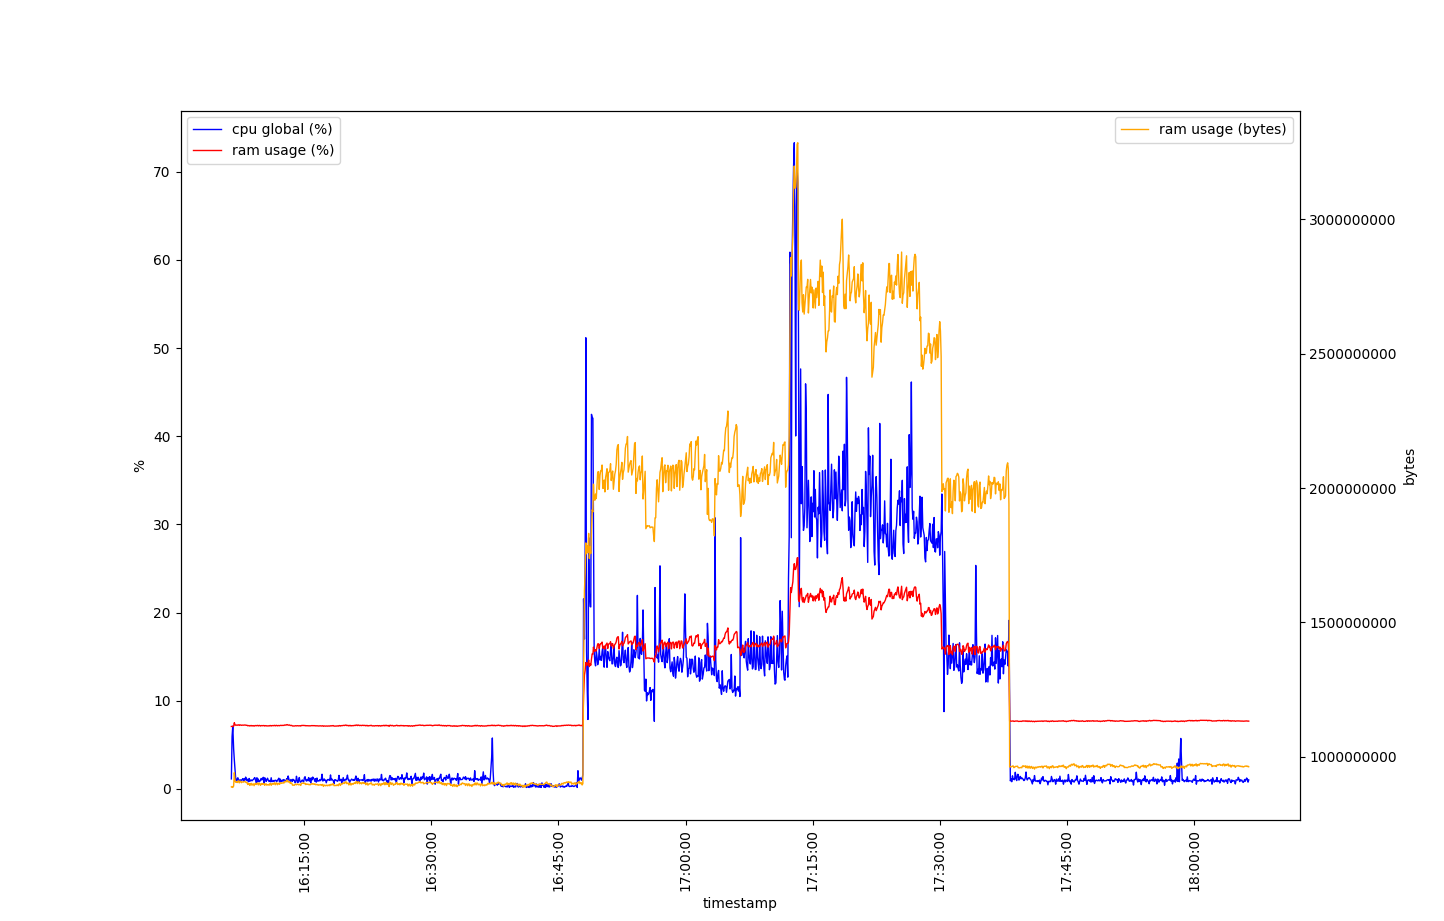
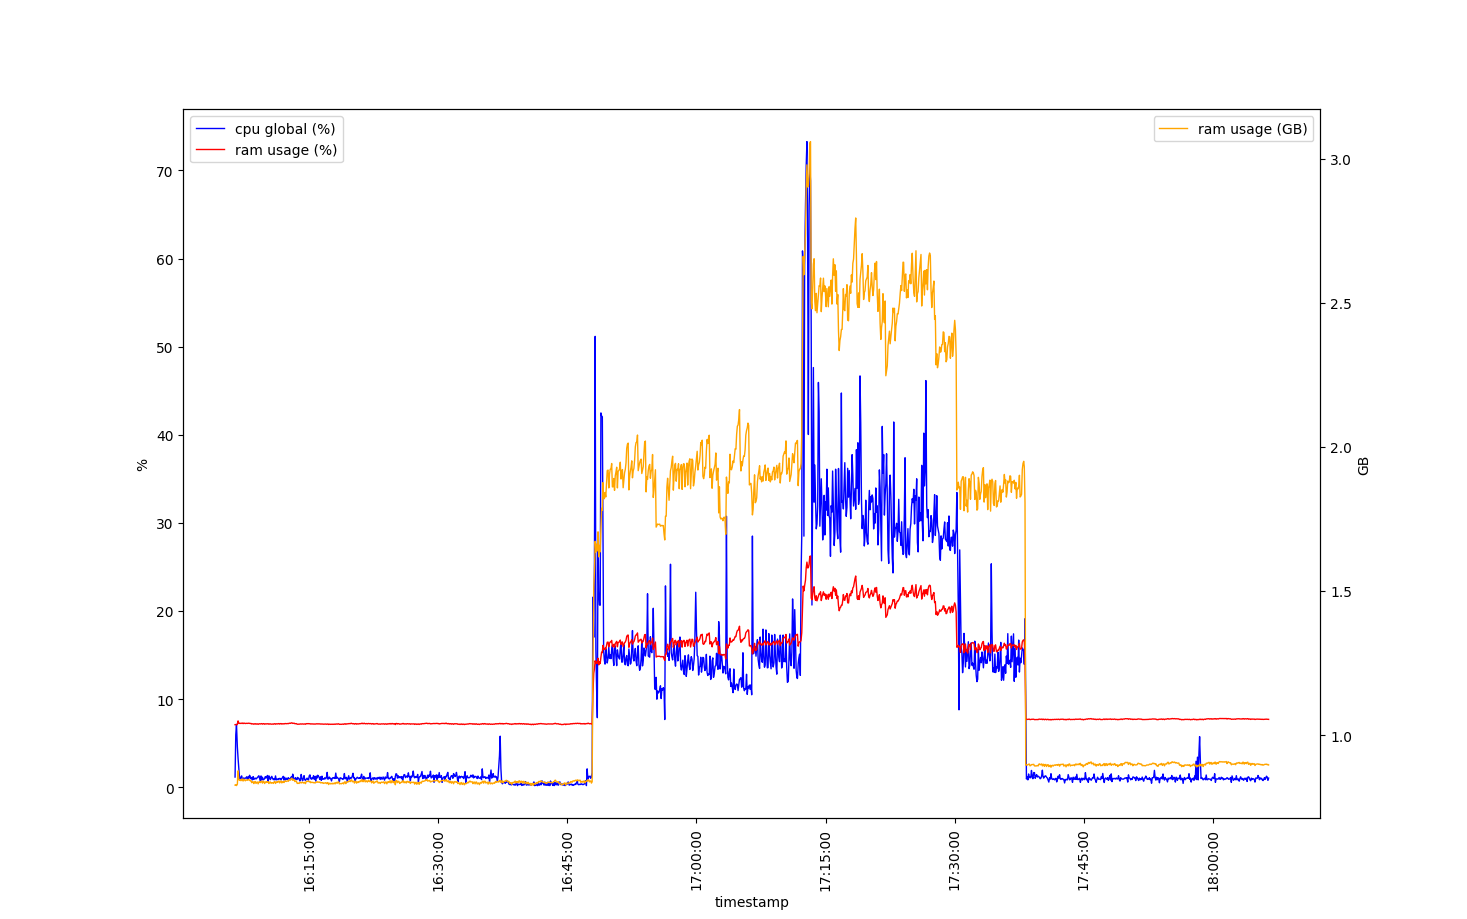
finished P2

diff --git a/P2/data/cpu-ram/cpu-ram-chart.py b/P2/data/cpu-ram/cpu-ram-chart.py
@@ -7,8 +7,9 @@ import matplotlib.dates as mdates
 from matplotlib.ticker import ScalarFormatter
 
 cols = zip(*(l.strip().split(",") for l in sys.stdin.readlines()))
-types = ("datetime64", "float", "uint", "float")
+types = ("datetime64", "float", "float", "float")
 tmsp, cpu, ram, ram_percent = (np.array(d, dtype=dt) for d, dt in zip(cols, types))
+ram /= 2**30
 
 # percentage
 _, ax_percent = plt.subplots()
@@ -27,14 +28,14 @@ plt.legend(loc="upper left")
 
 ax_ram = ax_percent.twinx()
 ax_ram.set_xlabel("timestamp")
-ax_ram.set_ylabel("bytes")
+ax_ram.set_ylabel("GB")
 ax_ram.yaxis.set_label_position("right")
 ax_ram.yaxis.set_ticks_position("right")
 ax_ram.yaxis.set_major_formatter(ScalarFormatter(useOffset=False))
 ax_ram.ticklabel_format(style="plain", axis="y")
 ax_ram.set_xticklabels(ax_ram.get_xticklabels(), rotation=90)
 
-ax_ram.plot(tmsp, ram, linestyle="-", color="orange", linewidth=1, label="ram usage (bytes)")
+ax_ram.plot(tmsp, ram, linestyle="-", color="orange", linewidth=1, label="ram usage (GB)")
 
 plt.legend(loc="upper right")
 

diff --git a/P2/P2.md b/P2/P2.md
@@ -30,8 +30,10 @@ header-includes: |
 El comando utilizado para la monitorización es el siguiente:
 
 ```bash
-top -b -n 1080 -d 5 | awk '/^%Cpu\(s\):/ {print strftime("%Y-%m-%d %H:%M:%S"), $0}
+top -b -n 1080 -d 5 | awk '/^%Cpu\(s\):/ {print strftime("%Y-%m-%d %H:%M:%S") "," 100-$8 "," $2 "," $4}'
 ```
+
+La utilización de CPU global se calcula con el propio comando ($U_{global} = 100 - U_{idle}$) y el output generado ya está en formato CSV, por lo que no necesita ningún post-procesado.
 
 ## ¿Cuántas CPUs tiene el sistema que se ha monitorizado? ¿De dónde se ha obtenido esa información?
 
@@ -44,35 +46,69 @@ $ nproc --all
 
 ## ¿Cuál es la utilización media de la CPU en modo usuario, sistema y en global?
 
-* media usuario: `0.073981 %`
-* media sistema: `0.042222 %`
-* media global:  `0.155370 %`
+* Media usuario: `0.073981 %`
+* Media sistema: `0.042222 %`
+* Media global:  `0.155370 %`
 
 ## ¿Cómo se comportan las medidas anteriores a lo largo del tiempo de observación? Muestra las tres métricas de forma gráfica.
 
 La utilización de la CPU se mantiene bastante baja, entre el 0% y 2%, y estable durante todo el período de medición, exceptuando el pequeño pico de actividad que hay entre las 09:50 y las 10:00.
 Las primeras mediciones son muy elevadas, probablemente debido a que el monitor top necesita un tiempo para estabilizar los valores medidos.
+En la gráfica se puede apreciar como la utilización global siempre es superior a la utilización de usuario y sistema.
 
 ![CPU 90 min](./data/cpu/cpu-usage-90m.png)
 
 ## ¿Cuál es la sobrecarga provocada por el monitor TOP?
 
-Ejecutando el siguiente unas varias veces podemos obtener el tiempo de ejecución de cada uno:
+Ejecutando el siguiente unas varias veces podemos obtener el tiempo de ejecución de cada medición:
 
 ```bash
-time top -b -n 1 -d 1 | awk '/^%Cpu\(s\):/ {print strftime("%Y-%m-%d %H:%M:%S"), $0}
+time top -b -n 1 -d 1 | awk '/^%Cpu\(s\):/ {print strftime("%Y-%m-%d %H:%M:%S") "," 100-$8 "," $2 "," $4}'
+```
+
+```
+$ time top -b -n 1 -d 1 | awk '/^%Cpu\(s\):/ {print strftime("%Y-%m-%d %H:%M:%S") "," 100-$8 "," $2 "," $4}'
+2025-03-10 11:02:35,9.9,8.5,1.4
+
+real    0m0.188s
+user    0m0.010s
+sys     0m0.027s
+$ time top -b -n 1 -d 1 | awk '/^%Cpu\(s\):/ {print strftime("%Y-%m-%d %H:%M:%S") "," 100-$8 "," $2 "," $4}'
+2025-03-10 11:02:36,8.1,7.4,0.7
+
+real    0m0.174s
+user    0m0.013s
+sys     0m0.012s
+$ time top -b -n 1 -d 1 | awk '/^%Cpu\(s\):/ {print strftime("%Y-%m-%d %H:%M:%S") "," 100-$8 "," $2 "," $4}'
+2025-03-10 11:02:36,3.1,2.3,0.8
+
+real    0m0.168s
+user    0m0.006s
+sys     0m0.013s
+$ time top -b -n 1 -d 1 | awk '/^%Cpu\(s\):/ {print strftime("%Y-%m-%d %H:%M:%S") "," 100-$8 "," $2 "," $4}'
+2025-03-10 11:02:37,8.3,6.8,1.5
+
+real    0m0.171s
+user    0m0.006s
+sys     0m0.016s
+$ time top -b -n 1 -d 1 | awk '/^%Cpu\(s\):/ {print strftime("%Y-%m-%d %H:%M:%S") "," 100-$8 "," $2 "," $4}'
+2025-03-10 11:02:37,6.2,5.4,0.8
+
+real    0m0.170s
+user    0m0.007s
+sys     0m0.014s
 ```
 
 Teniendo en cuenta varios resultados podemos calcular el tiempo medio de ejecución del monitor:
 
 $$
-\frac{0.168 + 0.170 + 0.171 + 0.180 + 0.183}{5} = 0.1744 \textrm{ ms}
+T_{monitor} = \frac{0.188 + 0.174 + 0.168 + 0.171 + 0.170}{5} = 0.174 \textrm{ s}
 $$
 
 Esto significa que la sobrecarga del monitor es:
 
 $$
-\frac{T_{monitor}}{T_{medida}} = \frac{0.1744}{5} = 0.03488 = 3.488\%
+\frac{T_{monitor}}{T_{medida}} = \frac{0.174}{5} = 0.0348 = 3.48\%
 $$
 
 \pagebreak
@@ -82,26 +118,34 @@ $$
 El comando utilizado para la monitorización es el siguiente:
 
 ```bash
-vmstat 3 3601 --unit K --wide | awk '{print strftime("%Y-%m-%d %H:%M:%S"), $4}'
+vmstat 3 3600 --unit K --wide | awk '{print strftime("%Y-%m-%d %H:%M:%S"), $4}'
 ```
+
+Este comando sólo proporciona el timestamp y la utilización de RAM actual. Debido a que los otros dos campos se pueden calcular a partir de la utilización y de la capacidad total, que es una constante, he decidido hacer estos cálculos con un script de Python que genera el CSV final. Además, el comando genera una cabecera cada cierto tiempo que el script también se encarga de quitarla.
 
 ## ¿Qué capacidad total tiene la memoria principal del sistema? ¿De dónde se ha obtenido ese dato?
 
-La capacidad de memoria principal del sistema es de `12227312 KB`. Se ha obtenido con el siguiente comando:
+La capacidad de memoria principal del sistema es de $12520767488 \textrm{ B} = 11.66 \textrm{ GB}$. Se ha obtenido con el siguiente comando:
 
 ```bash
-$ cat /proc/meminfo | head -n 1
-MemTotal:       12227312 kB
+$ free --bytes
+               total        used        free      shared  buff/cache   available
+Mem:     12520767488   923324416 10237382656    42438656  1360060416 11346395136
+Swap:     4294963200           0  4294963200
 ```
 
 ## ¿Cuál es la utilización media de la memoria? ¿Y la capacidad media utilizada?
 
-* media memoria libre: `8427075.82 KB`
-* media memoria utilizada: `3800236.17 KB`
+* Capacidad media: $8427075.82 \textrm{ KB}$
+* Utilización media: $3800236.17 \textrm{ KB}$; representada en porcentaje:
+
+$$
+\frac{U_{media}}{C_{total}} \cdot 100 = \frac{3800236.17}{\frac{12520767488}{2^{10}}} \cdot 100 = 31.07 \%
+$$
 
 ## ¿Cómo se comporta la utilización de la memoria y la capacidad utilizada? Representa estas métricas gráficamente.
 
-La utilización de la memoria experimenta cambios muy bruscos, probablemente debido al encendido/apagado de programas. Como se aprecia en la gráfica, y es obvio por definición, la cantidad de memoria libre y usada tienen un comportamiento inverso, generando un efecto espejo sobre el eje horizontal.
+La utilización de la memoria experimenta cambios muy rápidos, probablemente debido al encendido/apagado de programas. Como se aprecia en la gráfica, y es obvio por definición, la cantidad de memoria libre y usada tienen un comportamiento inverso, generando un efecto espejo sobre el eje horizontal.
 
 ![RAM 2h absoluto](./data/ram/ram-usage-absolute.png)
 
@@ -109,22 +153,65 @@ La utilización de la memoria experimenta cambios muy bruscos, probablemente deb
 
 ## ¿Cuál es la sobrecarga provocada por el monitor VMSTAT?
 
-Ejecutando el siguiente unas varias veces podemos obtener el tiempo de ejecución de cada uno:
+Ejecutando el siguiente comando unas varias veces podemos obtener el tiempo de ejecución de cada uno:
 
 ```bash
-vmstat 3 3601 --unit K --wide | awk '{print strftime("%Y-%m-%d %H:%M:%S"), $4}'
+time vmstat 1 1 --unit K --wide | awk '{print strftime("%Y-%m-%d %H:%M:%S"), $4}'
+```
+
+```
+$ time vmstat 1 1 --unit K --wide | awk '{print strftime("%Y-%m-%d %H:%M:%S"), $4}'
+2025-03-09 19:57:39 -----io----
+2025-03-09 19:57:39 free
+2025-03-09 19:57:39 10580112
+
+real    0m0.002s
+user    0m0.004s
+sys     0m0.000s
+$ time vmstat 1 1 --unit K --wide | awk '{print strftime("%Y-%m-%d %H:%M:%S"), $4}'
+2025-03-09 19:57:41 -----io----
+2025-03-09 19:57:41 free
+2025-03-09 19:57:41 10580112
+
+real    0m0.002s
+user    0m0.000s
+sys     0m0.003s
+$ time vmstat 1 1 --unit K --wide | awk '{print strftime("%Y-%m-%d %H:%M:%S"), $4}'
+2025-03-09 19:57:41 -----io----
+2025-03-09 19:57:41 free
+2025-03-09 19:57:41 10580364
+
+real    0m0.006s
+user    0m0.003s
+sys     0m0.000s
+$ time vmstat 1 1 --unit K --wide | awk '{print strftime("%Y-%m-%d %H:%M:%S"), $4}'
+2025-03-09 19:57:42 -----io----
+2025-03-09 19:57:42 free
+2025-03-09 19:57:42 10580364
+
+real    0m0.001s
+user    0m0.001s
+sys     0m0.001s
+$ time vmstat 1 1 --unit K --wide | awk '{print strftime("%Y-%m-%d %H:%M:%S"), $4}'
+2025-03-09 19:57:43 -----io----
+2025-03-09 19:57:43 free
+2025-03-09 19:57:43 10580112
+
+real    0m0.002s
+user    0m0.003s
+sys     0m0.000s
 ```
 
 Teniendo en cuenta varios resultados podemos calcular el tiempo medio de ejecución del monitor:
 
 $$
-\frac{0.001 + 0.002 + 0.002 + 0.001 + 0.002}{5} = 0.0016
+T_{monitor} = \frac{0.002 + 0.002 + 0.006 + 0.001 + 0.002}{5} = 0.0026 \textrm{ s}
 $$
 
 Esto significa que la sobrecarga del monitor es:
 
 $$
-\frac{T_{monitor}}{T_{medida}} = \frac{0.0016}{3} = 0.00053 = 0.053\%
+\frac{T_{monitor}}{T_{medida}} = \frac{0.0026}{3} = 0.00086 = 0.086\%
 $$
 
 \pagebreak
@@ -144,7 +231,7 @@ Para obtener la utilización de cada campo durante el intervalo de tiempo que in
 Si la utilización total, $U_t$, es la suma de todos los campos y $U_i$ es el campo idle, el porcentaje de utilización, $U$, es:
 
 $$
-U = \frac{U_t - U_i}{U_i} \cdot 100
+U = \frac{U_t - U_i}{U_t} \cdot 100
 $$
 
 Para la RAM, he decidido utilizar el comando `free --bytes` que genera el siguiente resultado:
@@ -170,7 +257,7 @@ $ free --bytes | sed -n '2p' | awk '{print $3/$2*100}'
 7.41111
 ```
 
-He juntado estos dos monitores en un script bash para que se ejecuten cada 5 segundos, teniendo en cuenta el tiempo de ejecución de ambos monitores tomando el *epoch* en milisegundos antes y después de su ejecución con `date +%s%3N` para compensar el tiempo de monitorización y poder calcular el *overhead* para decidir el intervalo de monitorización:
+He juntado estos dos monitores en un script bash para que se ejecuten cada 5 segundos, teniendo en cuenta el tiempo de ejecución de ambos monitores tomando el *epoch* en milisegundos antes y después de su ejecución con `date +%s%3N` para compensar el tiempo de monitorización y poder calcular el *overhead* y decidir el intervalo de monitorización:
 
 ```bash
 #!/bin/bash
@@ -263,7 +350,7 @@ $$
 
 He escogido un $T_{intervalo}$ de $5000 \textrm{ ms}$, lo que implica un overhead de $\frac{19.833}{5000}\cdot100 = 0.39 \%$, muy por debajo del límite de $10\%$.
 
-El siguiente gráfico representa el comportamiento de los valores monitorizados:
+En la gráfica se puede apreciar que todas las variables siguen, mas o menos, el mismo patrón con cambios muy rápidos debido a la apertura y cierre de aplicaciones, pero cuando no hay ninguna carga de trabajo importante se mantienen a unos valores bastante bajos y estables:
 
 ![CPU & RAM](./data/cpu-ram/cpu-ram.png)
 
@@ -287,5 +374,5 @@ Para un intervalo de monitorización variable (dirigido por eventos) se puede ob
 ![Intervalo monitorización variable](./data/overhead-variable.png)
 
 $$
-O = \frac{\sum\limits_{i = 0}^{n} T_{M_i}}{\sum\limits_{i = 0}^{n} T_{I_i}}
+O = \frac{\sum\limits_{i=0}^{n} T_{M_i}}{\sum\limits_{i = 0}^{n} T_{I_i}}
 $$
